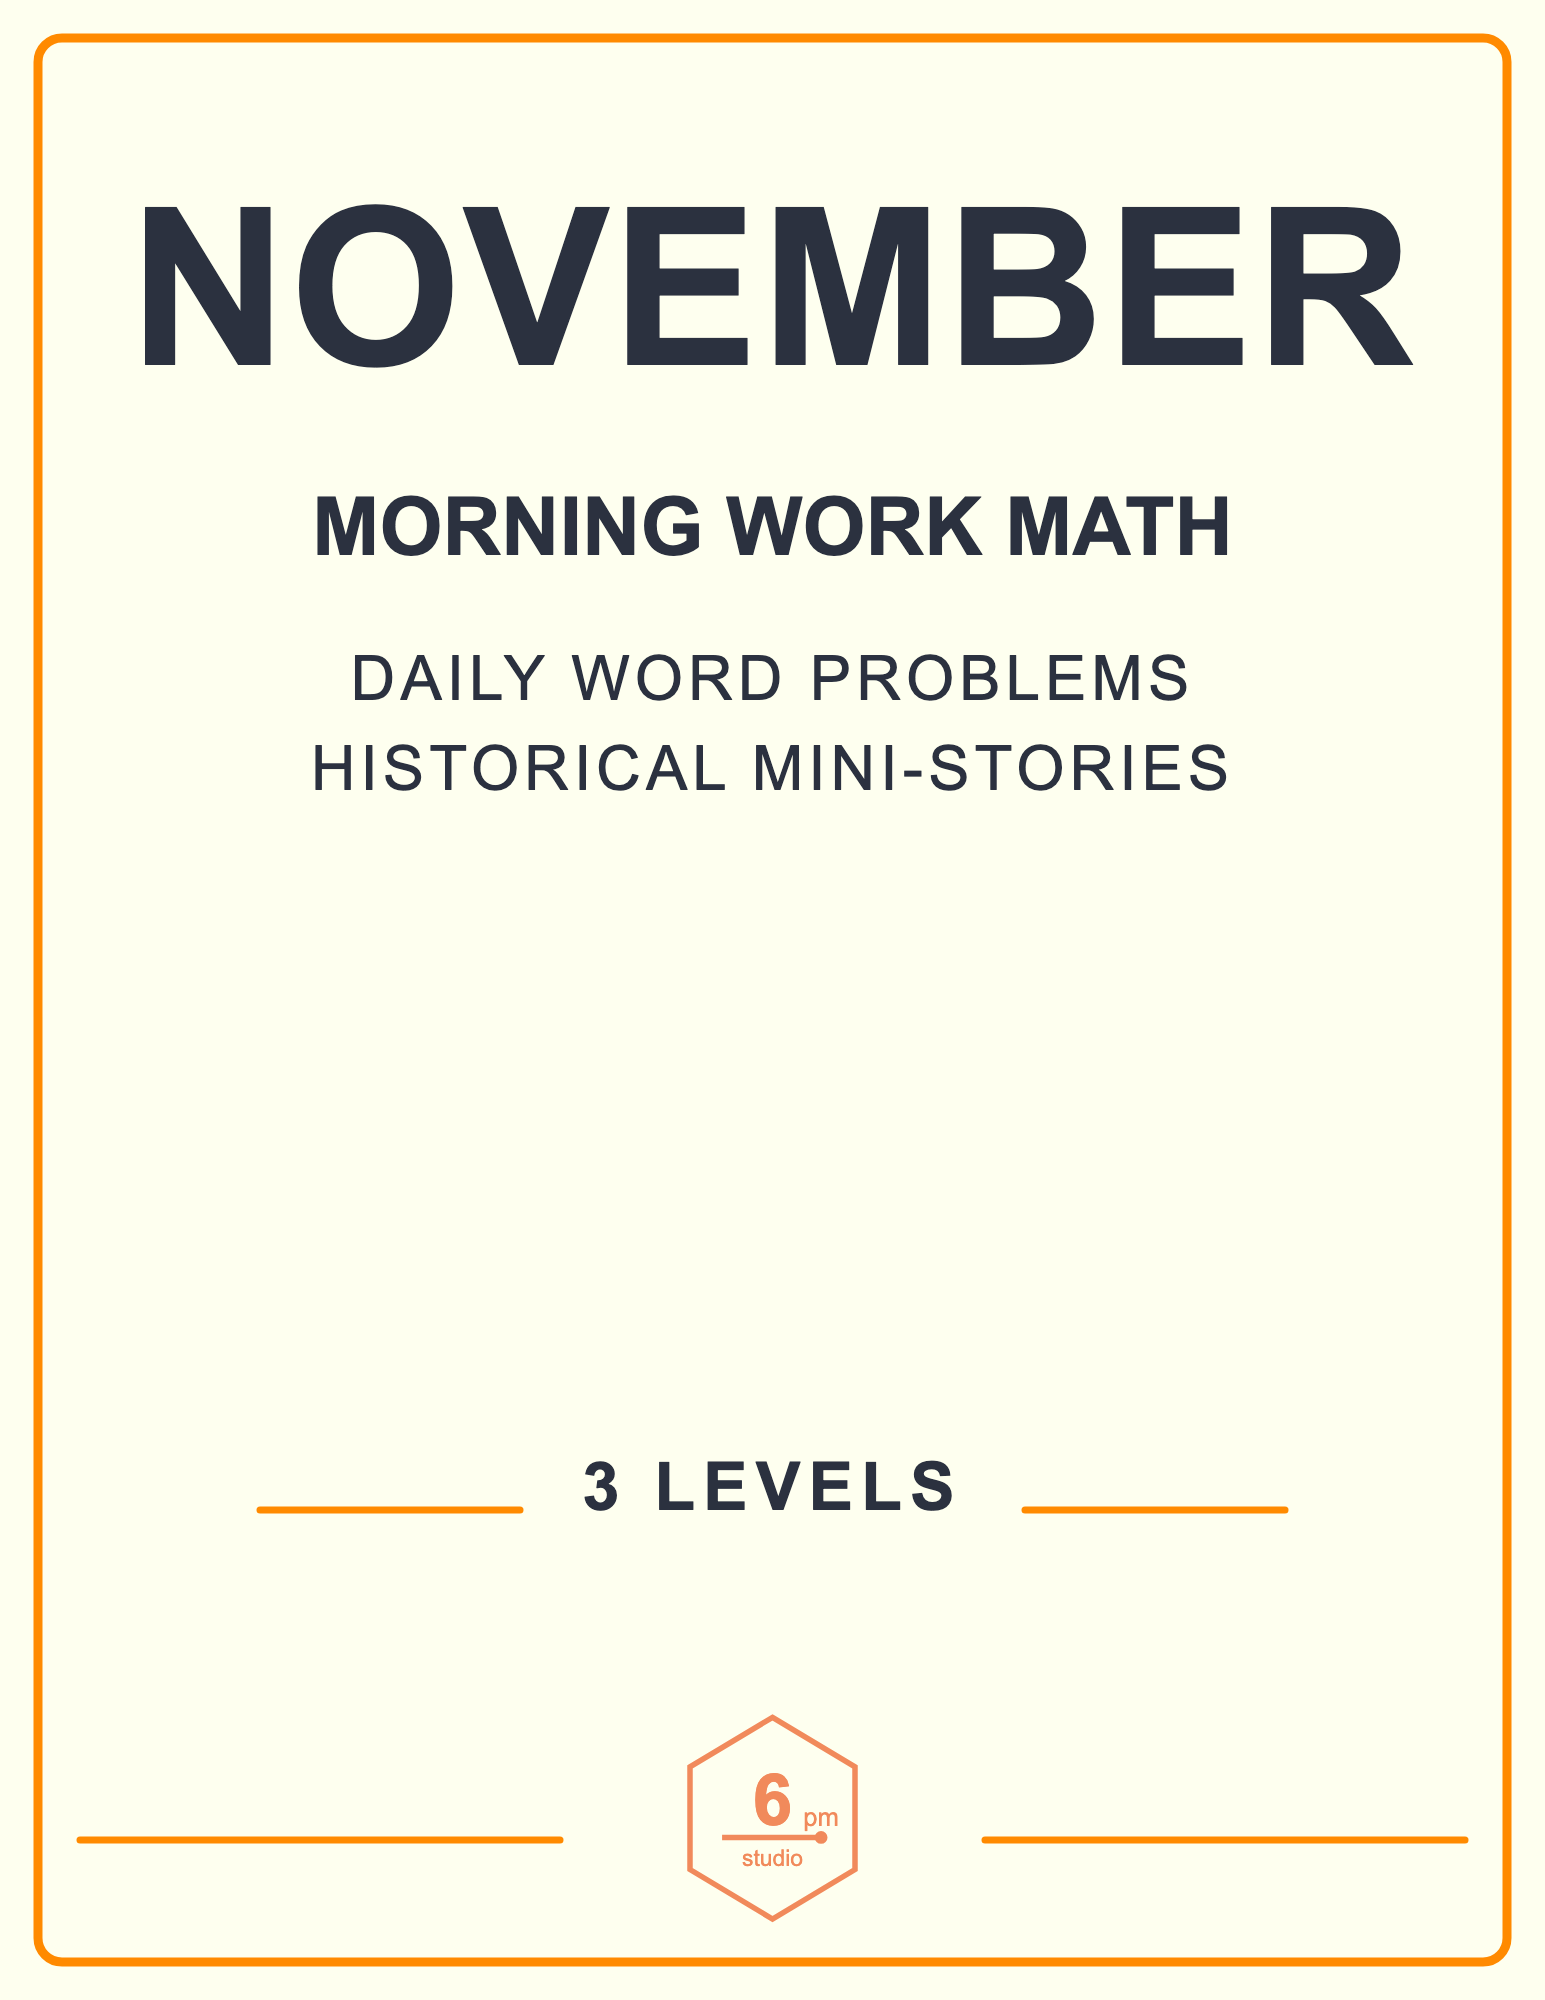
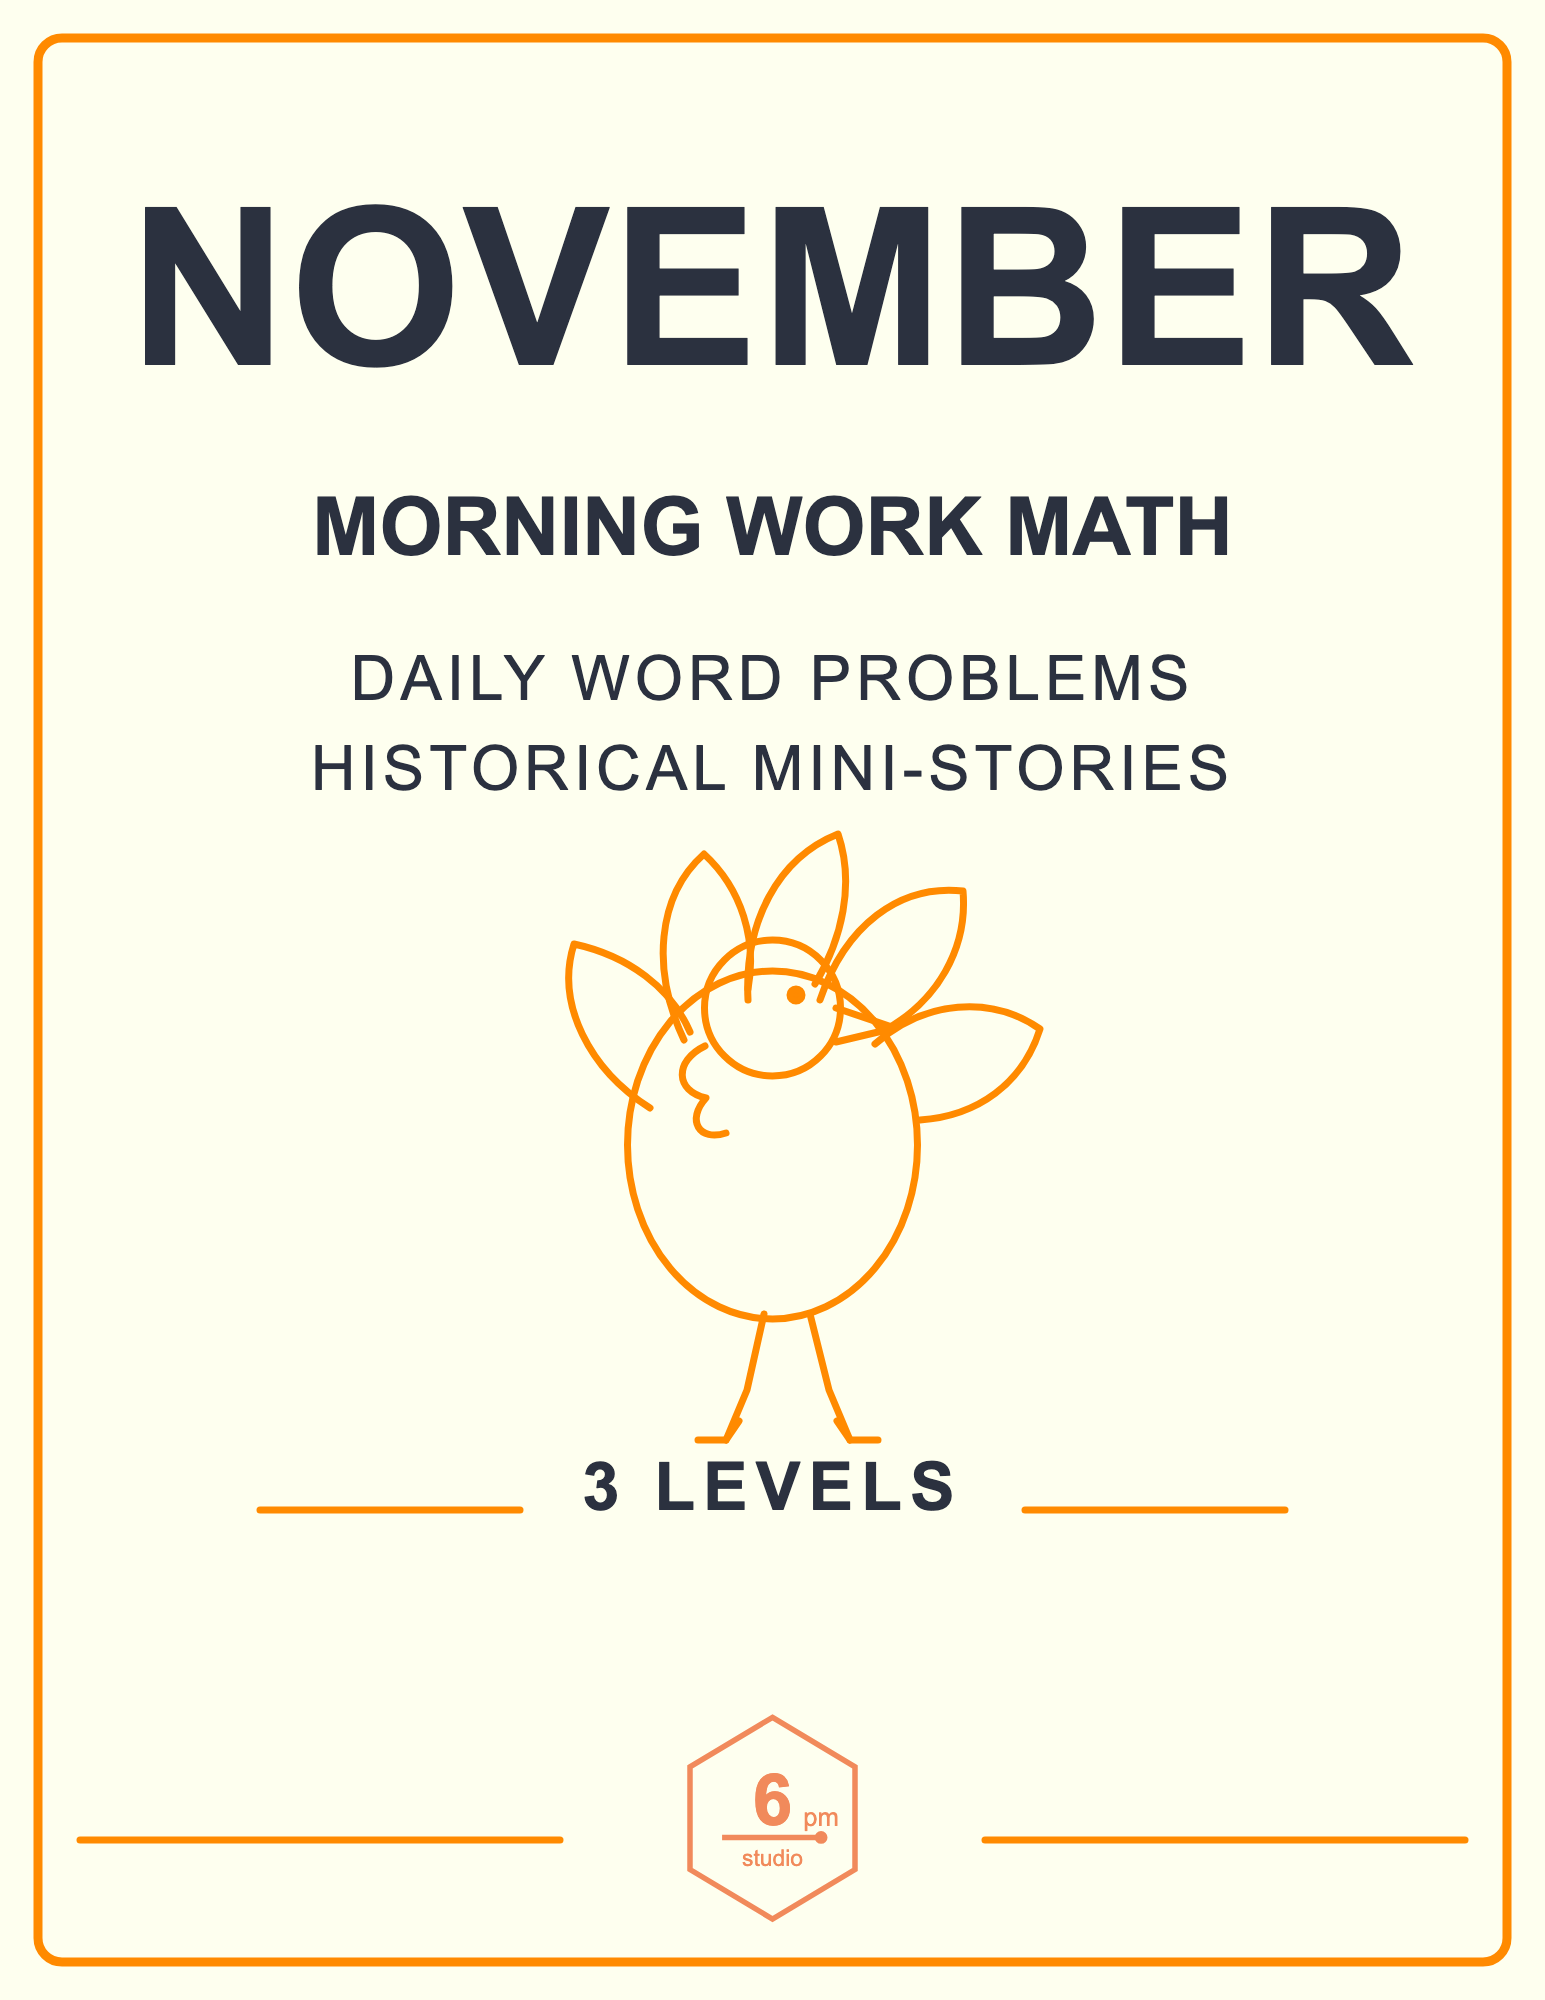
Add November turkey cover illustration

diff --git a/docs/november-cover-release.md b/docs/november-cover-release.md
@@ -8,7 +8,8 @@ Issue #86 is the first monthly instance of the reusable cover pipeline. The curr
 - Draft cover: `output/worksheet-cover/november-worksheet-cover.png` and `.pdf`.
 - Final packet after approval: `output/pdf/november-worksheet-packet.pdf`, 124 pages.
 - Final mapping: page 1 cover; pages 2–121 daily worksheets; pages 122–124 Answer Key pages.
-- The cover has no day-count text and no November-specific doodle.
+- The cover has no day-count text and uses a centered orange outline-only turkey doodle for November.
+- The turkey is a deterministic SVG illustration, so the reusable pipeline keeps the same geometry, palette, and placement across regeneration.
 - The official versioned logo asset is reused unchanged.
 
 Run `npm run cover:prepare:november` to regenerate the draft and manifest. The reusable pipeline refuses to merge unless `approval.status` is `approved` with `approvedBy` and `approvedAt`; this preserves the source PDF and prevents duplicate covers on reruns.
